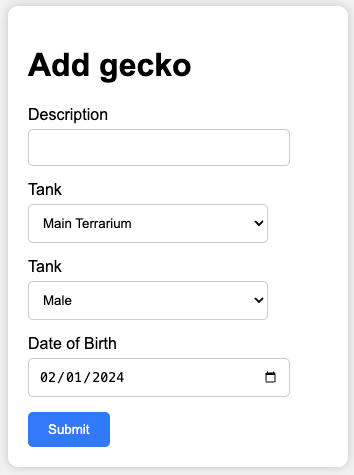
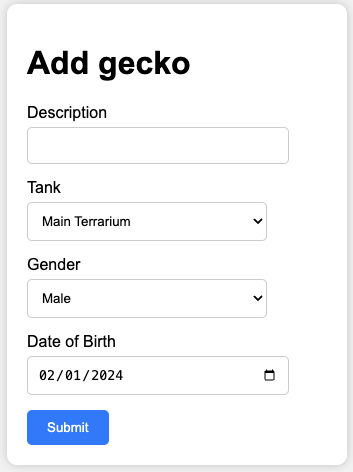
fix typo

diff --git a/cmd/gecko-tracker/assets/new_gecko.html b/cmd/gecko-tracker/assets/new_gecko.html
@@ -31,7 +31,7 @@
           {{end}}
         </select>
 
-        <label for="gender">Tank</label>
+        <label for="gender">Gender</label>
         <select id="gender" name="gender" required>
           <option value="male" {{ if eq $.EditGecko.Gender "male" }}selected="selected"{{ end }}>Male</option>
           <option value="female" {{ if eq $.EditGecko.Gender "female" }}selected="selected"{{ end }}>Female</option>
